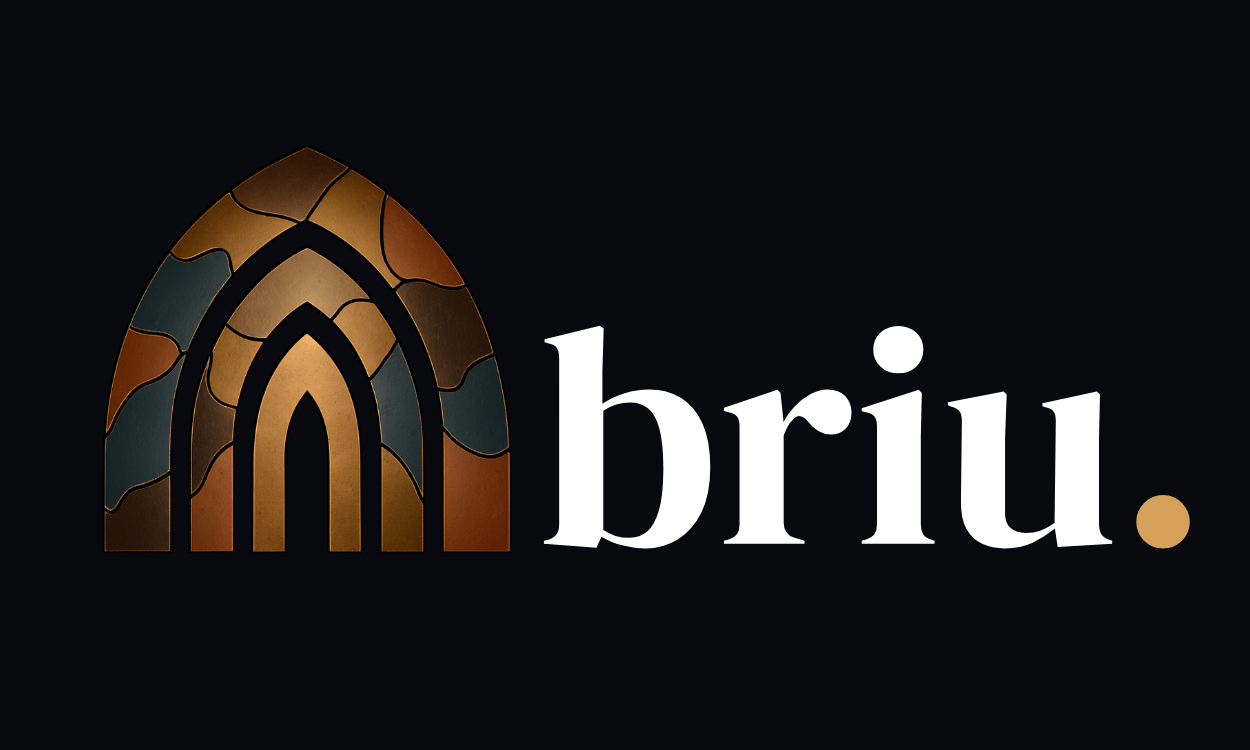
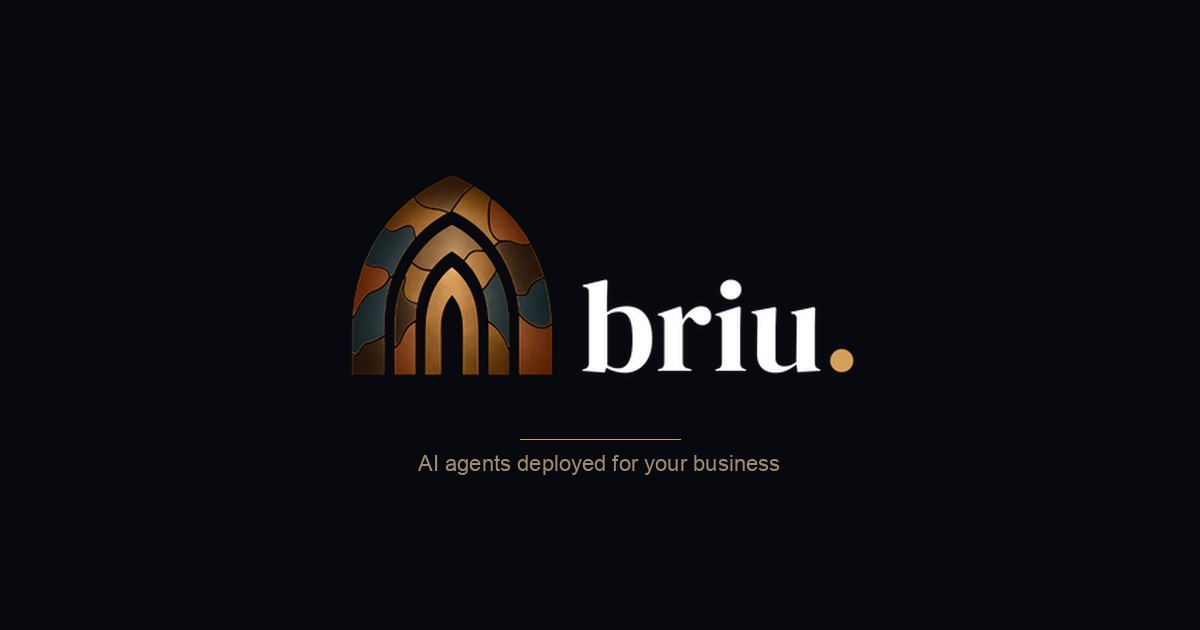
Fix OG image proportions and position scroll bar below nav
- OG image: proper 1200x630 ratio with breathing room and tagline
- Progress bar: z-index 999, dynamically positioned below nav height
- Fixes link preview looking cramped in iMessage/social

Changed region(s): [[0.0617, 0.181, 0.9558, 0.754]]

diff --git a/shared.css b/shared.css
@@ -40,7 +40,7 @@ nav { position: sticky; top: 0; width: 100%; z-index: 100; padding: 1.25rem 2rem
 .nav-links a:hover, .nav-links a.active { color: var(--gold); }
 .cta-nav { font-size: 0.75rem; font-weight: 600; text-transform: uppercase; letter-spacing: 0.14em; color: var(--gold); text-decoration: none; padding: 0.5rem 1.2rem; border: 1px solid rgba(212,160,90,0.35); transition: all 0.3s ease; }
 .cta-nav:hover { background: var(--gold); color: var(--bg); border-color: var(--gold); }
-.nav-progress { position: fixed; top: 0; left: 0; height: 3px; background: linear-gradient(90deg, var(--gold), var(--coral), var(--river)); width: 0%; transition: width 0.1s linear; z-index: 101; pointer-events: none; }
+.nav-progress { position: fixed; top: 0; left: 0; height: 3px; background: linear-gradient(90deg, var(--gold), var(--coral), var(--river)); width: 0%; transition: width 0.1s linear; z-index: 999; pointer-events: none; }
 
 /* Ambient Orbs */
 @keyframes orbFloat1 { 0%, 100% { transform: translate(0, 0); } 33% { transform: translate(30px, -50px); } 66% { transform: translate(-20px, 30px); } }

diff --git a/shared.js b/shared.js
@@ -233,12 +233,20 @@ document.getElementById('contactForm').addEventListener('submit', function(e) {
   }).catch(function() { btn.textContent = 'Error — try again'; btn.disabled = false; });
 });
 
-/* Scroll Progress Bar — fixed to top of viewport, independent of nav */
+/* Scroll Progress Bar — fixed just below nav */
 (function() {
   var bar = document.createElement('div');
   bar.className = 'nav-progress';
   bar.id = 'navProgress';
   document.body.appendChild(bar);
+
+  function positionBar() {
+    var nav = document.querySelector('nav');
+    if (nav) bar.style.top = nav.offsetHeight + 'px';
+  }
+  positionBar();
+  window.addEventListener('resize', positionBar);
+
   window.addEventListener('scroll', function() {
     var scrollTop = window.scrollY;
     var docHeight = document.documentElement.scrollHeight - window.innerHeight;
